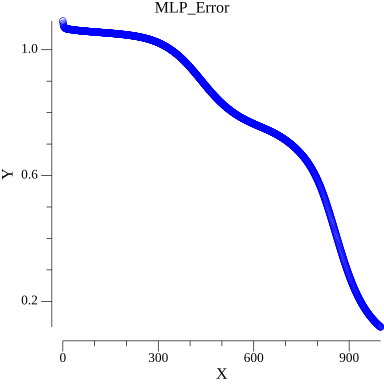
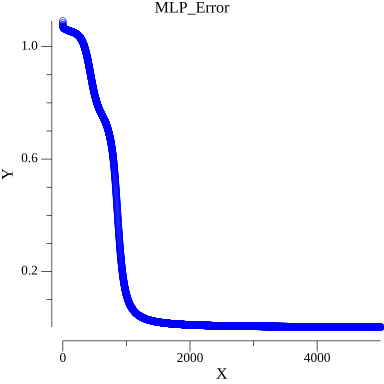
Multi Layer Perceptron

diff --git a/main.go b/main.go
@@ -22,35 +22,28 @@ type Mlp struct {
 }
 
 const (
-	iteration = 1000
+	iteration = 5000
 	lRate     = 0.6
 )
-
-var patterns = [][][]float64{
-	{{0, 0}, {0}},
-	{{0, 1}, {1}},
-	{{1, 0}, {1}},
-	{{1, 1}, {0}},
-}
 
 var gred = make([]float64, iteration)
 
 func main() {
+	//learning data / label
+	var patterns = [][][]float64{
+		{{0, 0}, {0}},
+		{{0, 1}, {1}},
+		{{1, 0}, {1}},
+		{{1, 1}, {0}},
+	}
+
 	mlp := Set(2, 2, 1, 1) //入力層ノード、隠れ層ノード、出力層ノード、隠れ層数
-	mlp.Train()
+	mlp.Train(patterns)
 	mlp.Test(patterns)
 
 	//fmt.Println(gred)
 	outputIMG()
-	//行列積を作成すること。関数化
 }
-
-/*func run() {
-	Mlp, labels, err := loadModel()
-	if err != nil {
-		log.Fatal(err)
-	}
-}*/
 
 func outputIMG() {
 	p, err := plot.New()
@@ -61,10 +54,8 @@ func outputIMG() {
 	p.X.Label.Text = "X"
 	p.Y.Label.Text = "Y"
 
-	//bs, err := plotter.NewBubbles(plotter.XYZs{{xp[0], xp[1], 1}}, vg.Points(2), vg.Points(2))
-	//bs, err := plotter.NewLine(plo)
 	for i, v := range gred {
-		bs, err := plotter.NewScatter(plotter.XYZs{{float64(i), v, 1}}) //, vg.Points(2), vg.Points(2))
+		bs, err := plotter.NewScatter(plotter.XYZs{{float64(i), v, 1}})
 		if err != nil {
 			panic(err)
 		}
@@ -72,7 +63,6 @@ func outputIMG() {
 		p.Add(bs)
 	}
 
-	//plotutil.AddLinePoints(p, "", plotter.XYs{{0, plane(w, 0)}, {4, plane(w, 4)}})
 	if err := p.Save(4*vg.Inch, 4*vg.Inch, "mlp.png"); err != nil {
 		panic(err)
 	}

diff --git a/mlp.go b/mlp.go
@@ -17,14 +17,14 @@ func Set(ni, nh, no, lh int) *Mlp {
 		layHidden:  lh,
 	}
 
-	//重みの初期化
+	//init weight
 	mlp.weiInput = MatrixInit(mlp.nodeInput, mlp.nodeHidden, 0)
 	for n := 0; n < mlp.nodeInput; n++ {
 		for w := 0; w < mlp.nodeHidden; w++ {
 			mlp.weiInput[n][w] = Random(-1, 1)
 		}
 	}
-	if mlp.layHidden > 1 { //隠れ層が２層以上存在するなら作成。
+	if mlp.layHidden > 1 { //if the number of hidden layer is more than 2
 		mlp.weiHidden = Tensor3Init(mlp.layHidden-1, mlp.nodeHidden, mlp.nodeHidden, 0)
 		for i := 0; i < mlp.layHidden-1; i++ {
 			for j := 0; j < mlp.nodeHidden; j++ {
@@ -41,7 +41,7 @@ func Set(ni, nh, no, lh int) *Mlp {
 		}
 	}
 
-	//ノード自身の値
+	//the value of nodes
 	mlp.valInput = VectorInit(mlp.nodeInput, 1)
 	mlp.valHidden = MatrixInit(mlp.layHidden, mlp.nodeHidden, 1)
 	mlp.valOutput = VectorInit(mlp.nodeOutput, 1)
@@ -51,7 +51,7 @@ func Set(ni, nh, no, lh int) *Mlp {
 	return mlp
 }
 
-func (mlp *Mlp) Train() {
+func (mlp *Mlp) Train(patterns [][][]float64) {
 	for i := 0; i < iteration; i++ {
 		var e float64
 		e = 0

diff --git a/numgo.go b/numgo.go
@@ -70,7 +70,6 @@ func Tensor3Init(l, m, n int, v float64) [][][]float64 {
 	return ten
 }
 
-//logistic function 0<= y <=1
 func Sigmoid(x float64) float64 {
 	return 1 / (1 + math.Exp(-x))
 }
